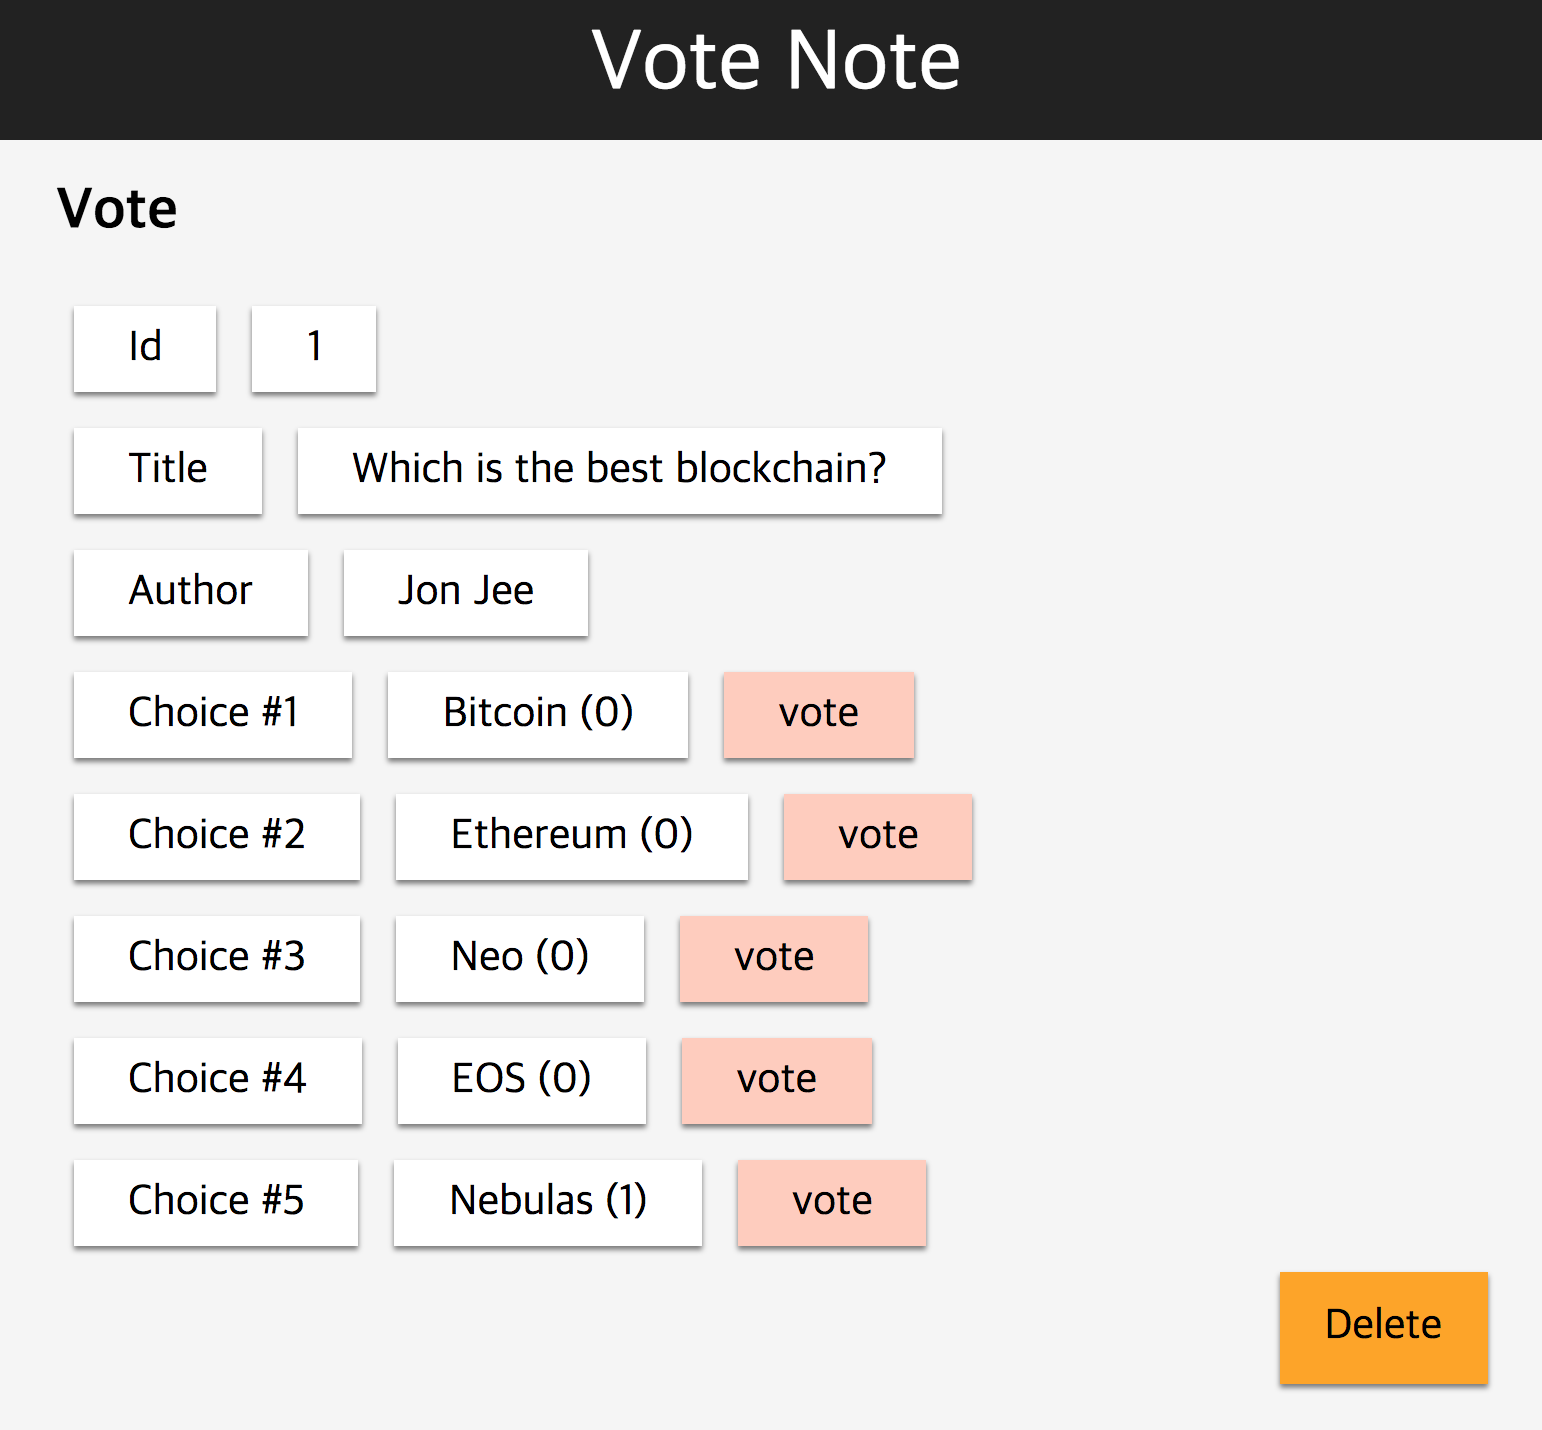
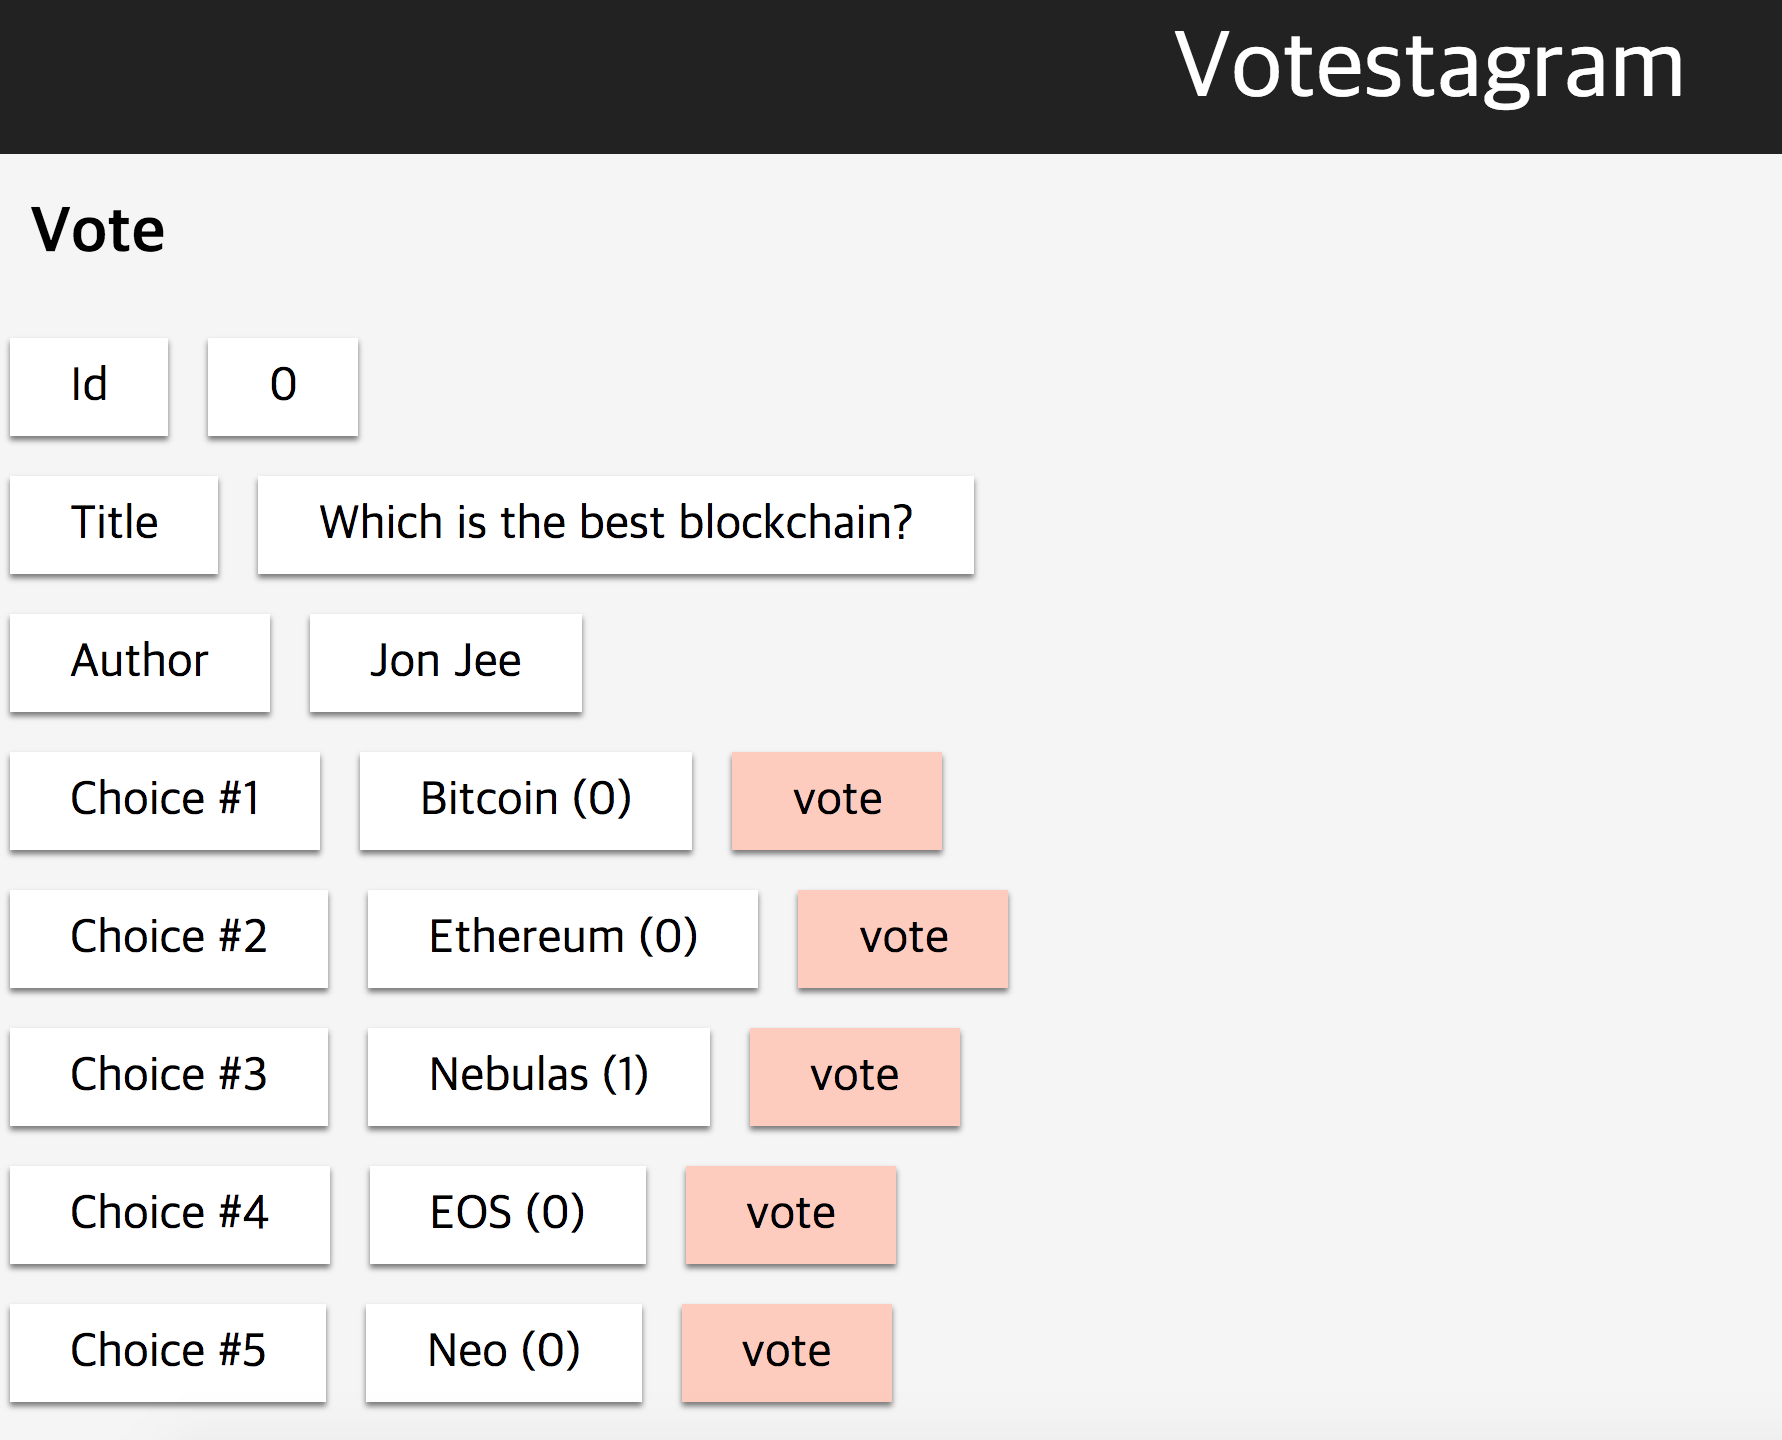
update title, img of doc

diff --git a/src/votenote-web/public/index.html b/src/votenote-web/public/index.html
@@ -3,7 +3,7 @@
   <head>
     <meta charset="utf-8">
     <meta name="viewport" content="width=device-width, initial-scale=1, shrink-to-fit=no">
-    <title>Vote Note | Nebulas</title>
+    <title>Votestagram | Nebulas</title>
   </head>
   <body>
     <div id="root"></div>
